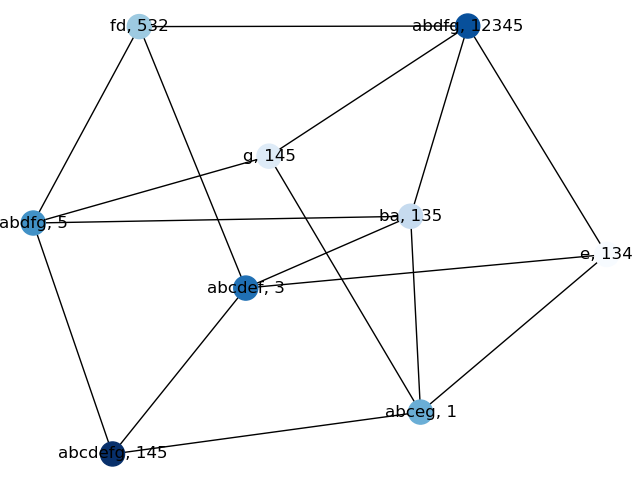
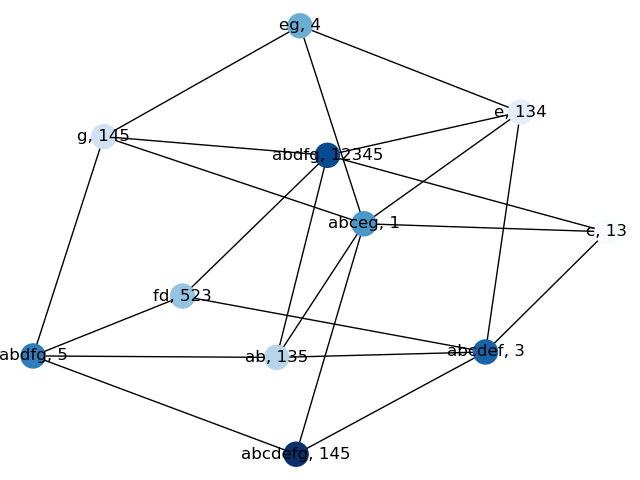
Lattice expansion, code fixes

diff --git a/FCA.py b/FCA.py
@@ -11,9 +11,6 @@ class FCA:
     """
 
     def __init__(self,data,obj,attr):
-        # self.I = np.array(data)
-        # self.G = np.array(obj)
-        # self.M = np.array(attr)
         self.I = data
         self.G = obj
         self.M = attr
@@ -26,58 +23,25 @@ class FCA:
 
     def getBipartiteGroups(self):
         cList = []
-        aLen = len(self.I)
-        bLen = len(self.I[0])
-        # printMat(aMat)
-        # print(aLen,bLen," are aLen and bLen\n\n")
-        for x in range(0,aLen):
-            tmpList = []
+        objLen = len(self.I)
+        attrLen = len(self.I[0])
+
+        for x in range(0,objLen):
             tmpObj = [self.G[x]]
-
-            for y in range(0,bLen):
-                if self.I[x][y] == '1':
-                    tmpList.append(self.M[y])
-
+            tmpList = [self.M[y] for y in range(0,attrLen) if self.I[x][y] == '1']
             tmp = tmpObj,tmpList
             self.dictionaryGM[self.G[x]] = tmpList
             cList.append(tmp)
 
-        for x in range(0,bLen):
-            tmpList = []
-            tmpattr = [self.M[x]]
-
-            for y in range(0,aLen):
-                if self.I[y][x] == '1':
-                    tmpList.append(self.G[y])
-
-            tmp = tmpList,tmpattr
+        for x in range(0,attrLen):
+            tmpAttr = [self.M[x]]
+            tmpList = [self.G[y] for y in range(0,objLen) if self.I[y][x] == '1']
+            tmp = tmpList,tmpAttr
             self.dictionaryGM[self.M[x]] = tmpList
             cList.append(tmp)
+
         self.bipartiteGroups = cList
         return self.bipartiteGroups
-
-    def removeUnclosed(self):
-        flist = []
-        for x in range(0,len(self.bipartiteGroups)):
-            list_top = []
-            list_bottom = []
-            for y in range(0,len(self.bipartiteGroups[x][0])):
-                if list_top == []:
-                    list_top = self.dictionaryGM[self.bipartiteGroups[x][0][y]]
-                else:
-                    list_top = list(set(list_top).intersection(set(self.dictionaryGM[self.bipartiteGroups[x][0][y]])))
-
-            for z in range(0,len(self.bipartiteGroups[x][1])):
-                if not list_bottom:
-                    list_bottom = self.dictionaryGM[self.bipartiteGroups[x][1][z]]
-                else:
-                    list_bottom = list(
-                        set(list_bottom).intersection(set(self.dictionaryGM[self.bipartiteGroups[x][1][z]])))
-            #       print ("printing both list for ",  x,  list_top,  list_bottom)
-            if set(list_top) == set(self.bipartiteGroups[x][1]) and set(list_bottom) == set(self.bipartiteGroups[x][0]):
-                flist.append(self.bipartiteGroups[x])
-        self.bipartiteGroups = flist
-        return flist
 
     def condenseList(self):
         clist = []
@@ -131,6 +95,7 @@ class FCA:
         self.bipartiteGroups = flist
         return self.bipartiteGroups
 
+    # Need improvements
     def buildLatticeGraph(self):
 
         hasSuccessor = []
@@ -177,7 +142,7 @@ class FCA:
         lastNode = "".join(str(m) for m in self.G) + ", " + "".join(str(m) for m in list_bottom)
         self.graph.add_node(lastNode)
 
-        # adding edges to themself.M[x]
+        # adding edges to them self.M[x]
         for x in range(0,len(self.bipartiteGroups)):
             if x not in hasSuccessor:
                 nodeName = "".join(str(m) for m in self.bipartiteGroups[x][0]) + ", " + "".join(
@@ -203,16 +168,13 @@ class FCA:
 
     def buildLattice(self):
         self.getBipartiteGroups()
-        bCListSize = len(self.bipartiteGroups)
-        bCListSizeCondensed = -1
+        bigroupsListSize = len(self.bipartiteGroups)
+        bigroupsListSizeCondensed = -1
         # Condense bipartite cliques until no change
-        while bCListSize != bCListSizeCondensed:
-            bCListSize = len(self.bipartiteGroups)
+        while bigroupsListSize != bigroupsListSizeCondensed:
+            bigroupsListSize = len(self.bipartiteGroups)
             self.bipartiteGroups = self.condenseList()
-            bCListSizeCondensed = len(self.bipartiteGroups)
-
-        # filter concepts
-        self.removeUnclosed()
+            bigroupsListSizeCondensed = len(self.bipartiteGroups)
 
         for x in range(0,len(self.bipartiteGroups)):
             object = "".join(str(m) for m in sorted(self.bipartiteGroups[x][0]))
